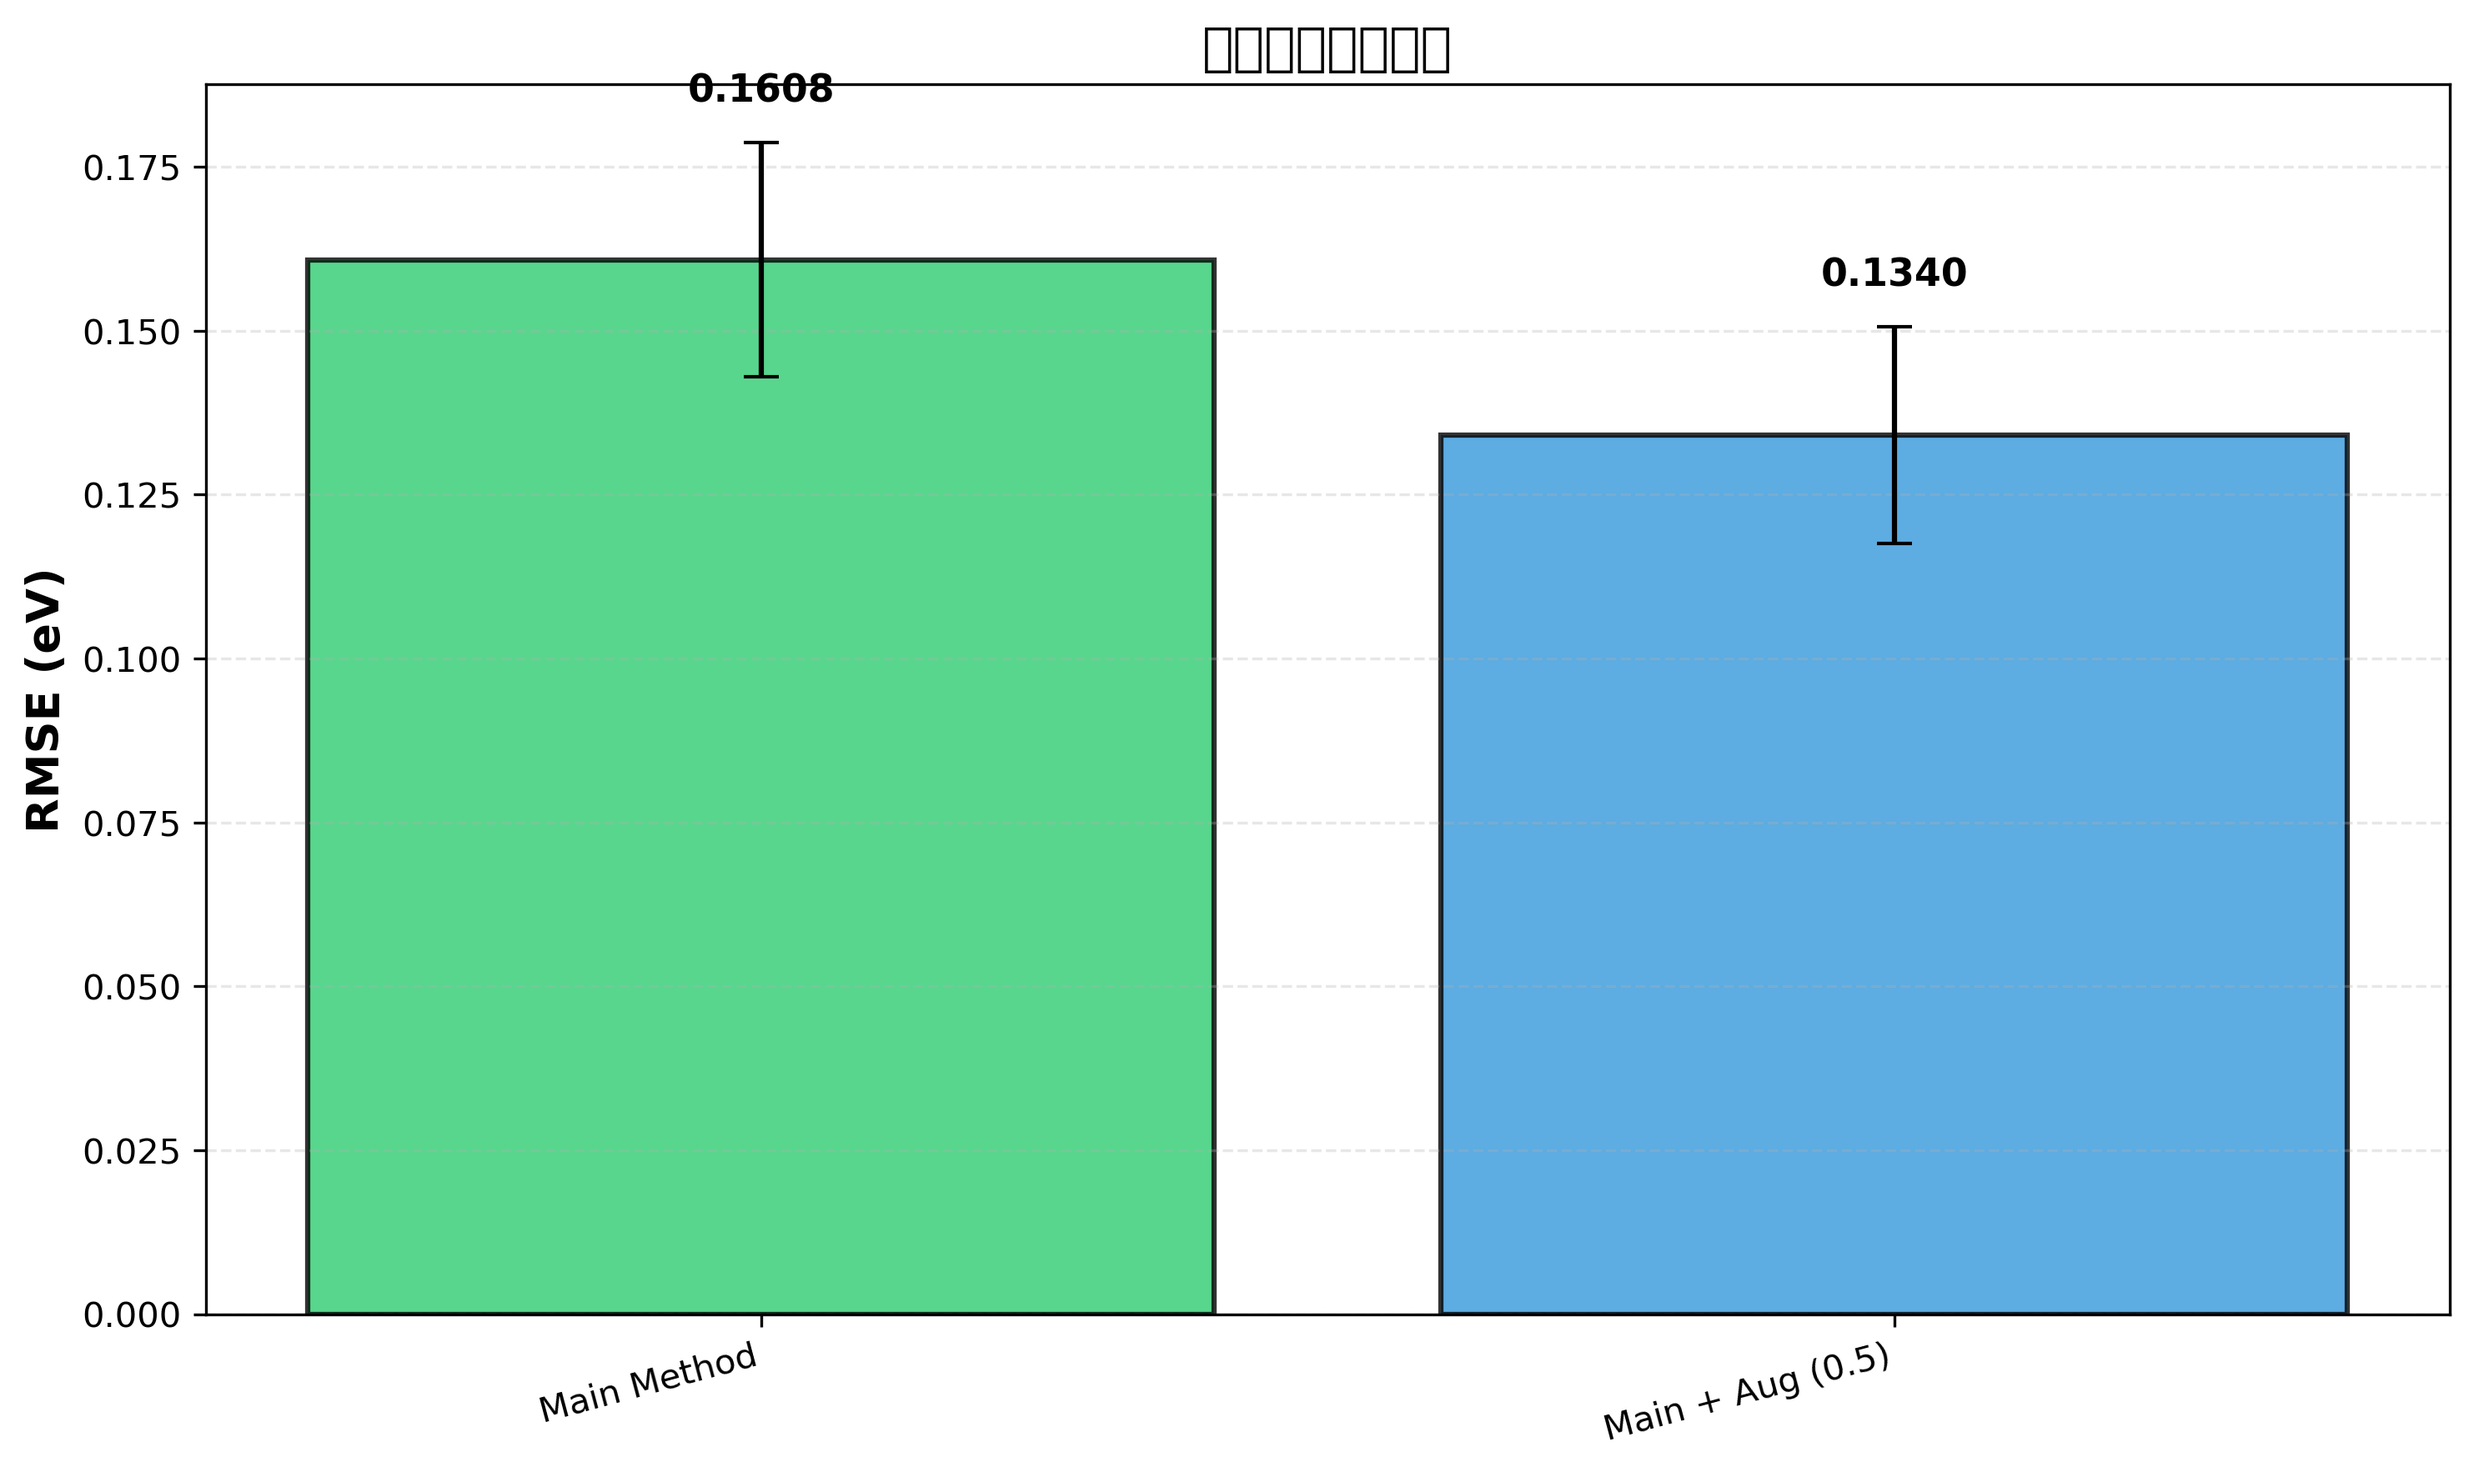
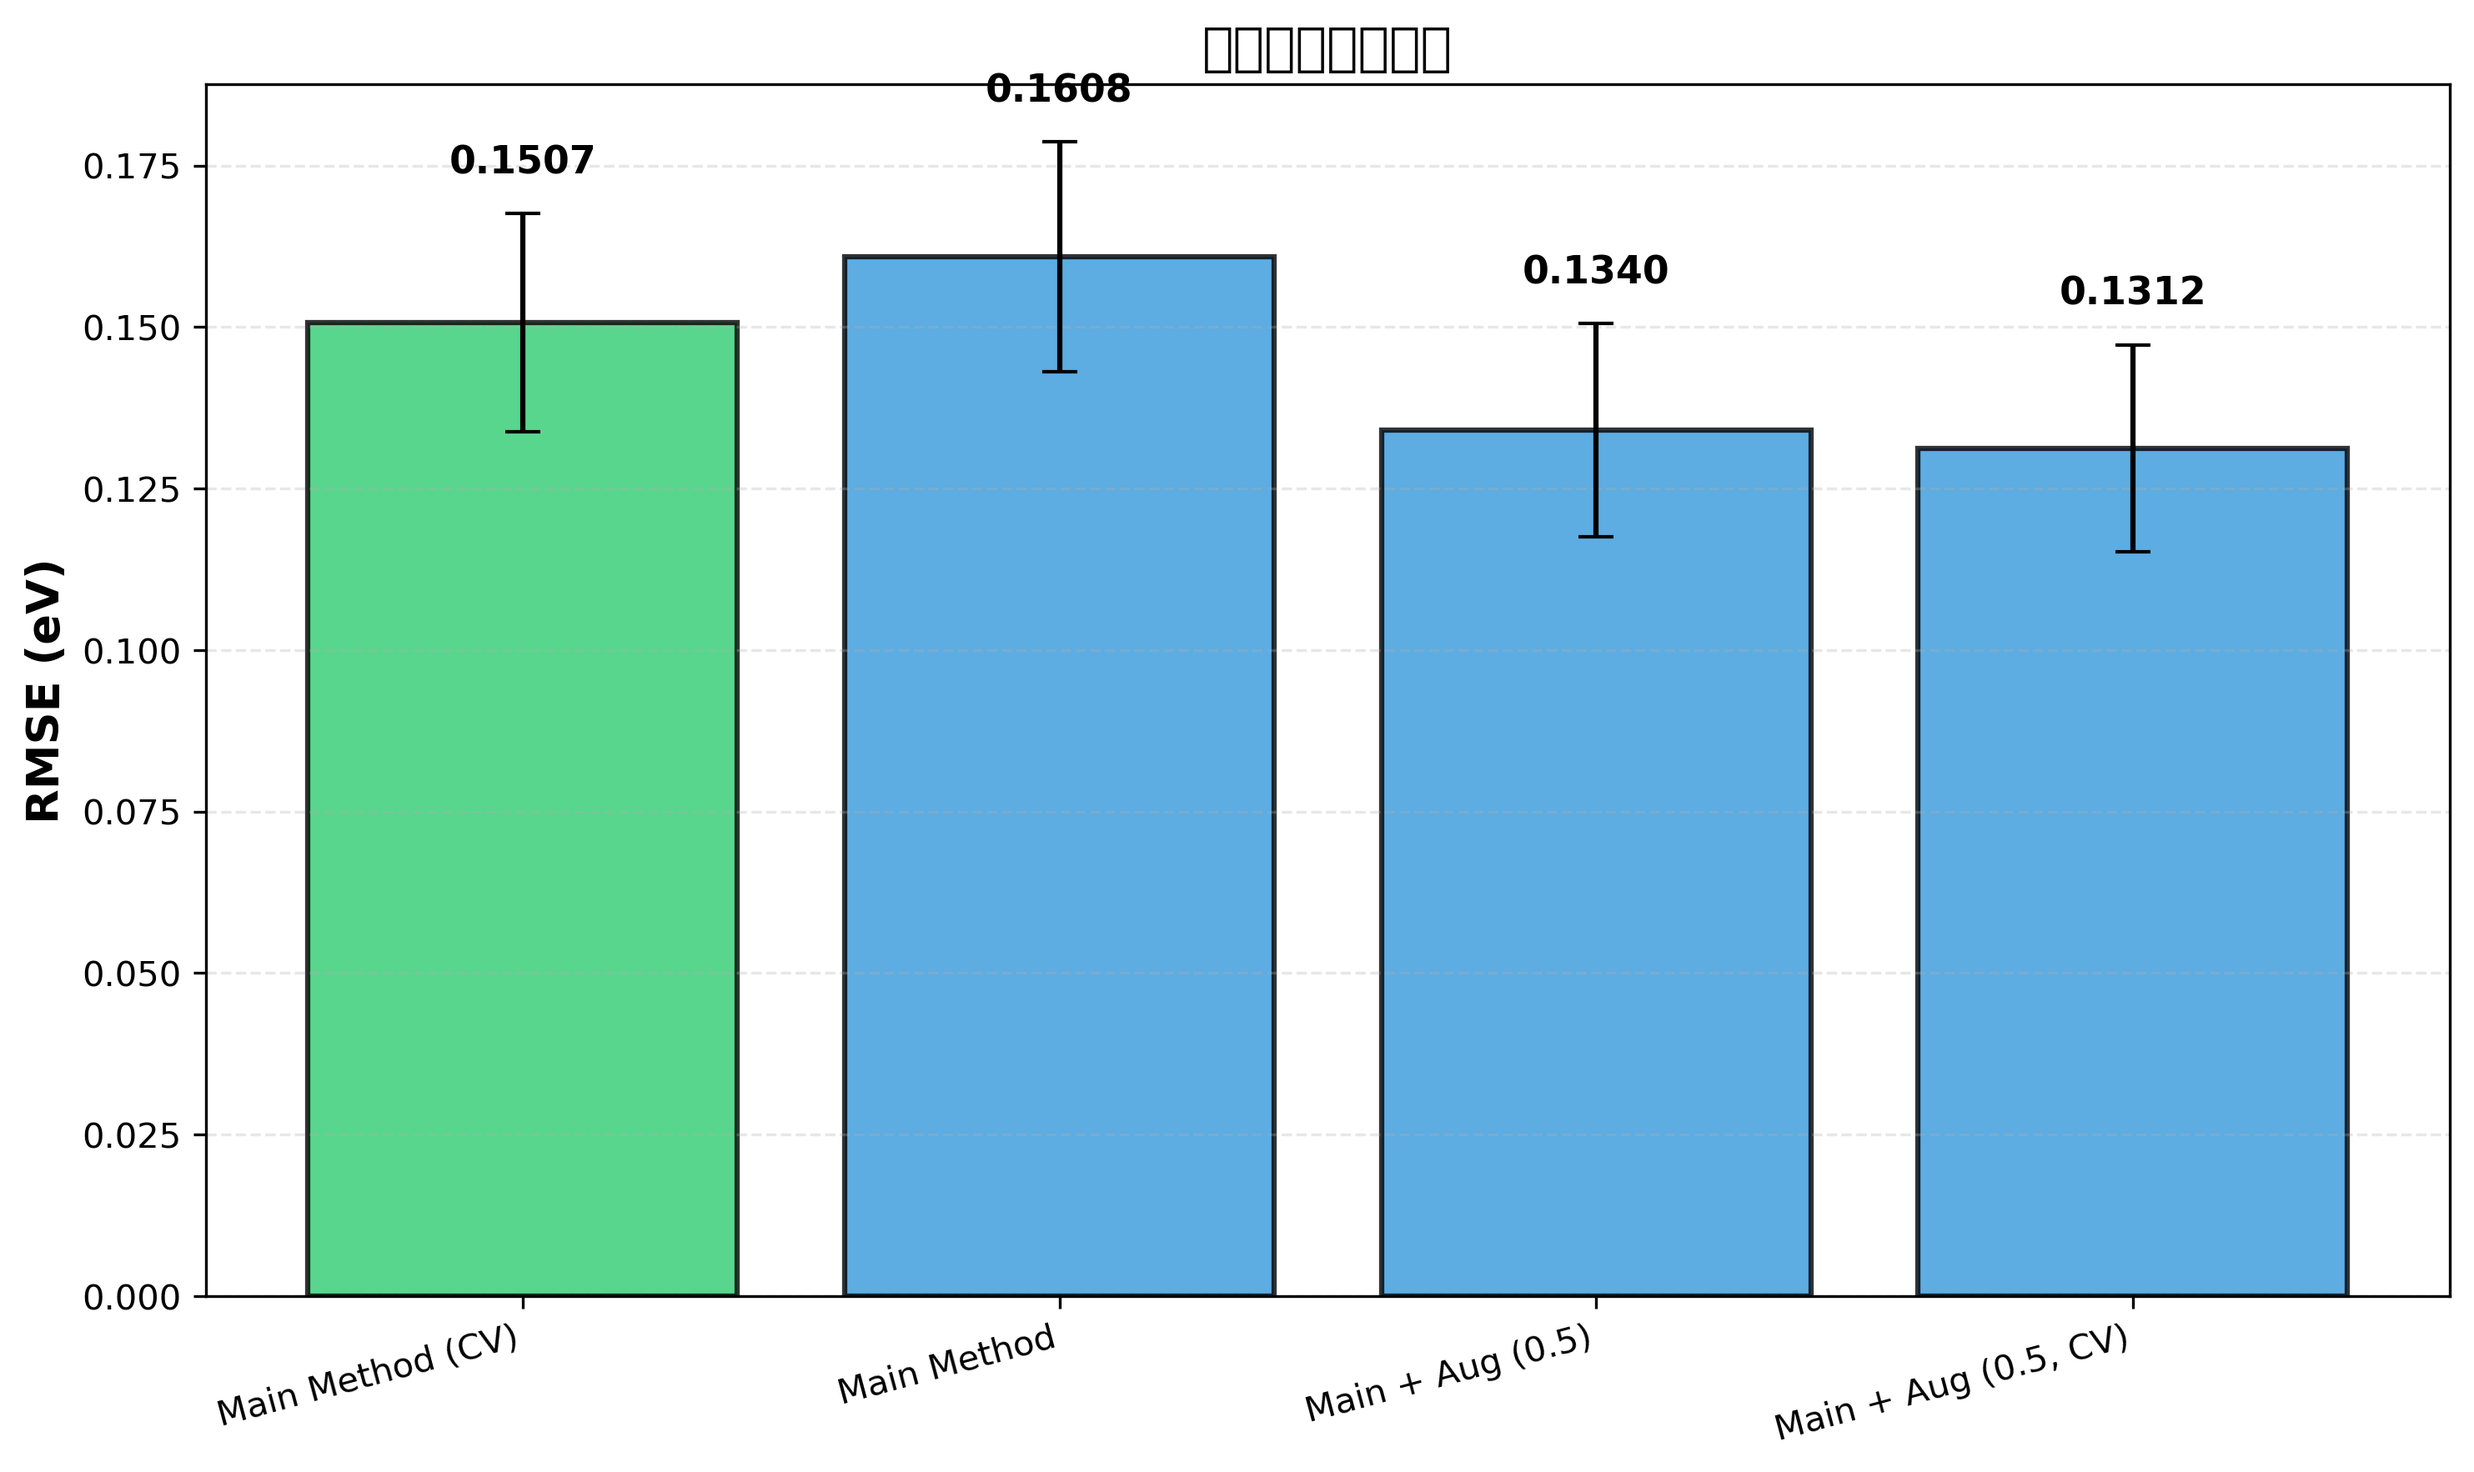
new script

diff --git a/code/analyze_results.py b/code/analyze_results.py
@@ -78,6 +78,12 @@ def load_experiment_results(results_dir=None):
     if not main_seed_df.empty:
         data['Main Method'] = _summarize_metrics(main_seed_df, 'main_method_seed*/results.json')
 
+    aug_seed_df = _load_seed_result_dirs(results_dir, 'main_method_aug0.5')
+    if not aug_seed_df.empty:
+        data['Main + Aug (0.5)'] = _summarize_metrics(
+            aug_seed_df, 'main_method_aug0.5_seed*/results.json'
+        )
+
     # 自动加载增强实验结果（例如 main_method_aug0.5_summary.csv）
     for filepath in sorted(results_dir.glob('*_aug*_summary.csv')):
         df = pd.read_csv(filepath)
@@ -85,7 +91,7 @@ def load_experiment_results(results_dir=None):
             stem = filepath.stem.replace('_summary', '')
             if stem.startswith('main_method_aug'):
                 prob = stem.replace('main_method_aug', '')
-                name = f'Main + Aug ({prob})'
+                name = f'Main + Aug ({prob}, CV)' if 'fold' in df.columns else f'Main + Aug ({prob})'
             else:
                 name = stem.replace('_', ' ').title()
             data[name] = _summarize_metrics(df, filepath.name)
@@ -161,28 +167,24 @@ def analyze_augmentation(data):
     print('数据增强效果分析')
     print('='*90)
 
-    if 'Main Method' not in data:
-        print('Main Method结果未找到，无法分析增强效果')
-        return
-
-    baseline_rmse = data['Main Method']['rmse_mean']
-    print(f'\nBaseline (无增强): RMSE = {baseline_rmse:.4f}')
-
-    aug_results = []
-    for name in data.keys():
-        if 'Aug' in name:
-            aug_rmse = data[name]['rmse_mean']
+    comparisons = [
+        ('Main Method', 'Main + Aug (0.5)', '普通3-seed split'),
+        ('Main Method (CV)', 'Main + Aug (0.5, CV)', '5-fold CV'),
+    ]
+    found = False
+    for baseline_name, aug_name, protocol in comparisons:
+        if baseline_name in data and aug_name in data:
+            found = True
+            baseline_rmse = data[baseline_name]['rmse_mean']
+            aug_rmse = data[aug_name]['rmse_mean']
             improvement = ((baseline_rmse - aug_rmse) / baseline_rmse) * 100
-            aug_results.append((name, aug_rmse, improvement))
-            print(f'{name}: RMSE = {aug_rmse:.4f}, 改进 = {improvement:+.2f}%')
+            print(f'\n{protocol}:')
+            print(f'  Baseline: {baseline_name} RMSE = {baseline_rmse:.4f}')
+            print(f'  Augmented: {aug_name} RMSE = {aug_rmse:.4f}')
+            print(f'  RMSE改进: {improvement:+.2f}%')
 
-    if aug_results:
-        best = max(aug_results, key=lambda x: x[2])
-        print(f'\n最佳增强配置: {best[0]}')
-        print(f'  RMSE: {best[1]:.4f}')
-        print(f'  相对改进: {best[2]:+.2f}%')
-    else:
-        print('\n未找到增强实验结果')
+    if not found:
+        print('\n未找到可比的增强实验结果')
 
 
 def create_visualizations(data, output_dir=None):
@@ -233,7 +235,8 @@ def create_visualizations(data, output_dir=None):
         plt.close()
 
     # 2. 数据增强效果对比
-    aug_methods = ['Main Method'] + [k for k in data.keys() if 'Aug' in k]
+    aug_methods = ['Main Method', 'Main + Aug (0.5)',
+                   'Main Method (CV)', 'Main + Aug (0.5, CV)']
     aug_data = {k: v for k, v in data.items() if k in aug_methods}
 
     if len(aug_data) > 1:
@@ -308,18 +311,22 @@ def write_markdown_report(data, output_dir=None):
             f'- Compared with Stage2-only, the full two-stage method changes RMSE by {(stage2 - main) / main * 100:+.2f}%, isolating the value of learning a stable regression head before unfreezing the backbone.',
         ])
 
-    aug_keys = [k for k in data if 'Aug' in k]
-    if 'Main Method' in data and aug_keys:
-        baseline = data['Main Method']['rmse_mean']
-        best_key = min(aug_keys, key=lambda k: data[k]['rmse_mean'])
-        best_rmse = data[best_key]['rmse_mean']
-        lines.extend([
-            '',
-            '## Augmentation Interpretation',
-            '',
-            f'- Best augmentation setting: {best_key}, RMSE {best_rmse:.4f}.',
-            f'- Relative to the non-augmented main method, this is {(baseline - best_rmse) / baseline * 100:+.2f}% RMSE change.',
-        ])
+    aug_lines = []
+    for baseline_name, aug_name, protocol in [
+        ('Main Method', 'Main + Aug (0.5)', 'standard 3-seed split'),
+        ('Main Method (CV)', 'Main + Aug (0.5, CV)', '5-fold CV'),
+    ]:
+        if baseline_name in data and aug_name in data:
+            baseline = data[baseline_name]['rmse_mean']
+            aug_rmse = data[aug_name]['rmse_mean']
+            aug_lines.append(
+                f'- Under the {protocol} protocol, {aug_name} changes RMSE by '
+                f'{(baseline - aug_rmse) / baseline * 100:+.2f}% '
+                f'({baseline:.4f} -> {aug_rmse:.4f}).'
+            )
+
+    if aug_lines:
+        lines.extend(['', '## Augmentation Interpretation', ''] + aug_lines)
 
     report_path.write_text('\n'.join(lines) + '\n', encoding='utf-8')
     print(f'分析报告已保存: {report_path}')

diff --git a/results/experiment_analysis.md b/results/experiment_analysis.md
@@ -17,7 +17,8 @@ SMILES augmentation is applied only to the training split. Each molecule keeps t
 | Stage2-only | 0.1483 +/- 0.0230 | 0.1132 +/- 0.0140 | 0.4211 +/- 0.2436 | 3 | ablation_stage2_only_results.csv |
 | Main Method (CV) | 0.1507 +/- 0.0169 | 0.1182 +/- 0.0137 | 0.4020 +/- 0.1972 | 15 | main_method_summary.csv |
 | Main Method | 0.1608 +/- 0.0178 | 0.1231 +/- 0.0159 | 0.3382 +/- 0.1578 | 3 | main_method_seed*/results.json |
-| Main + Aug (0.5) | 0.1340 +/- 0.0165 | 0.1052 +/- 0.0119 | 0.5163 +/- 0.2126 | 3 | main_method_aug0.5_summary.csv |
+| Main + Aug (0.5) | 0.1340 +/- 0.0165 | 0.1052 +/- 0.0119 | 0.5163 +/- 0.2126 | 3 | main_method_aug0.5_seed*/results.json |
+| Main + Aug (0.5, CV) | 0.1312 +/- 0.0160 | 0.1042 +/- 0.0132 | 0.5345 +/- 0.1869 | 15 | main_method_aug0.5_summary.csv |
 
 ## Ablation Interpretation
 
@@ -26,5 +27,5 @@ SMILES augmentation is applied only to the training split. Each molecule keeps t
 
 ## Augmentation Interpretation
 
-- Best augmentation setting: Main + Aug (0.5), RMSE 0.1340.
-- Relative to the non-augmented main method, this is +16.66% RMSE change.
+- Under the standard 3-seed split protocol, Main + Aug (0.5) changes RMSE by +16.66% (0.1608 -> 0.1340).
+- Under the 5-fold CV protocol, Main + Aug (0.5, CV) changes RMSE by +12.92% (0.1507 -> 0.1312).
